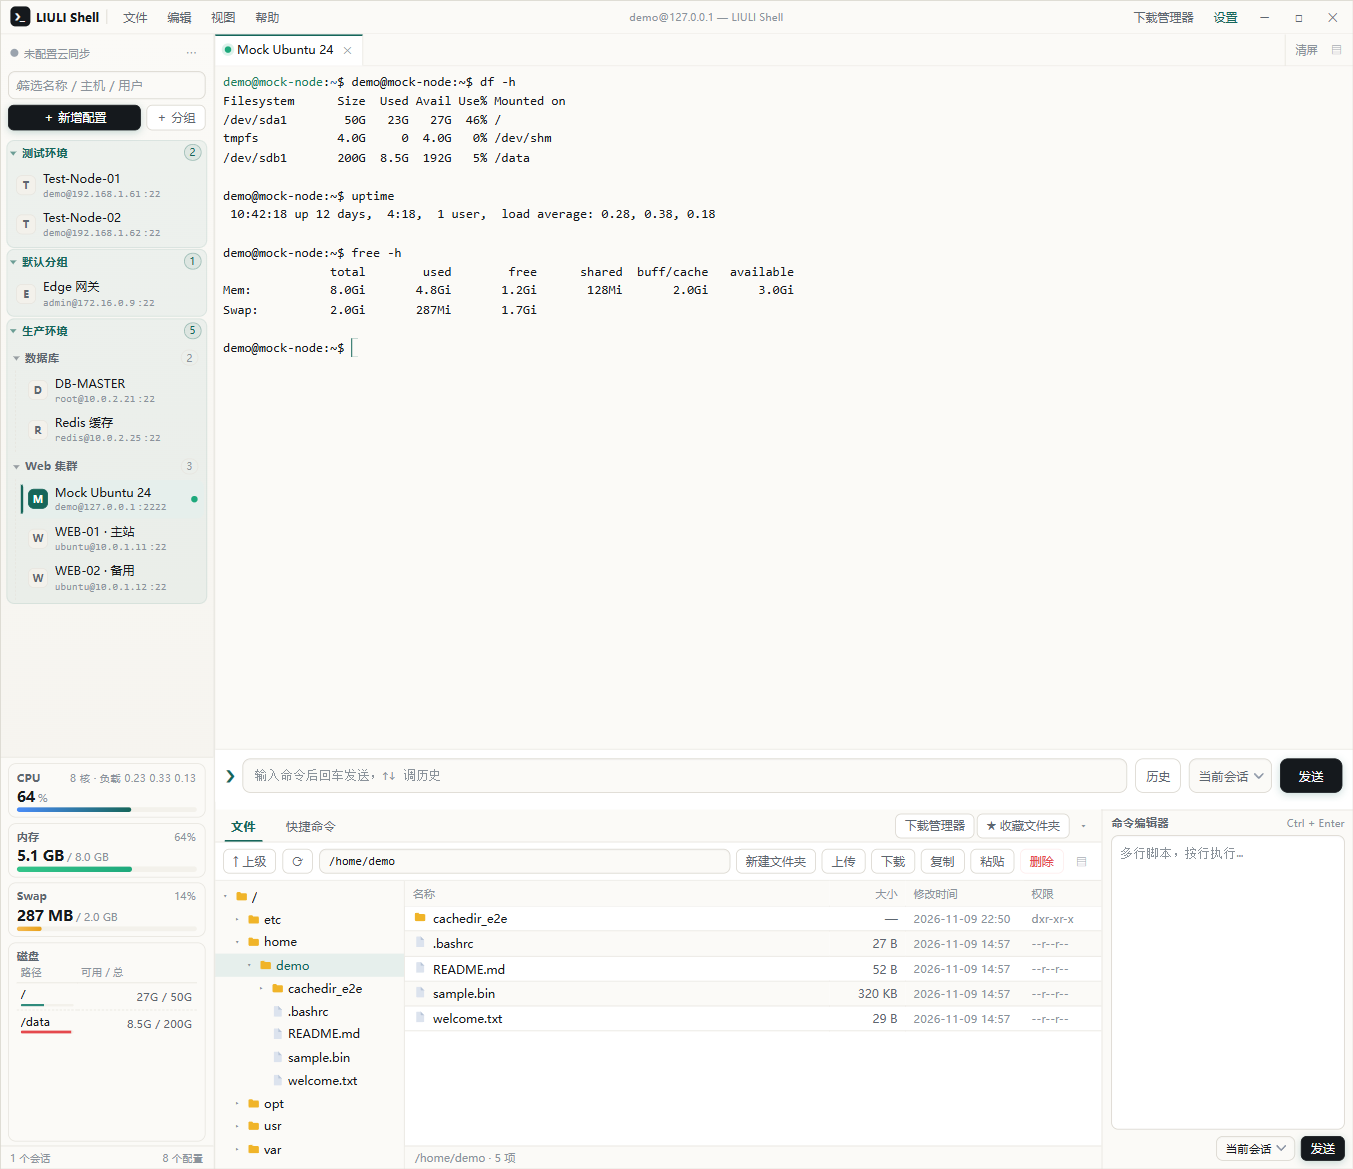
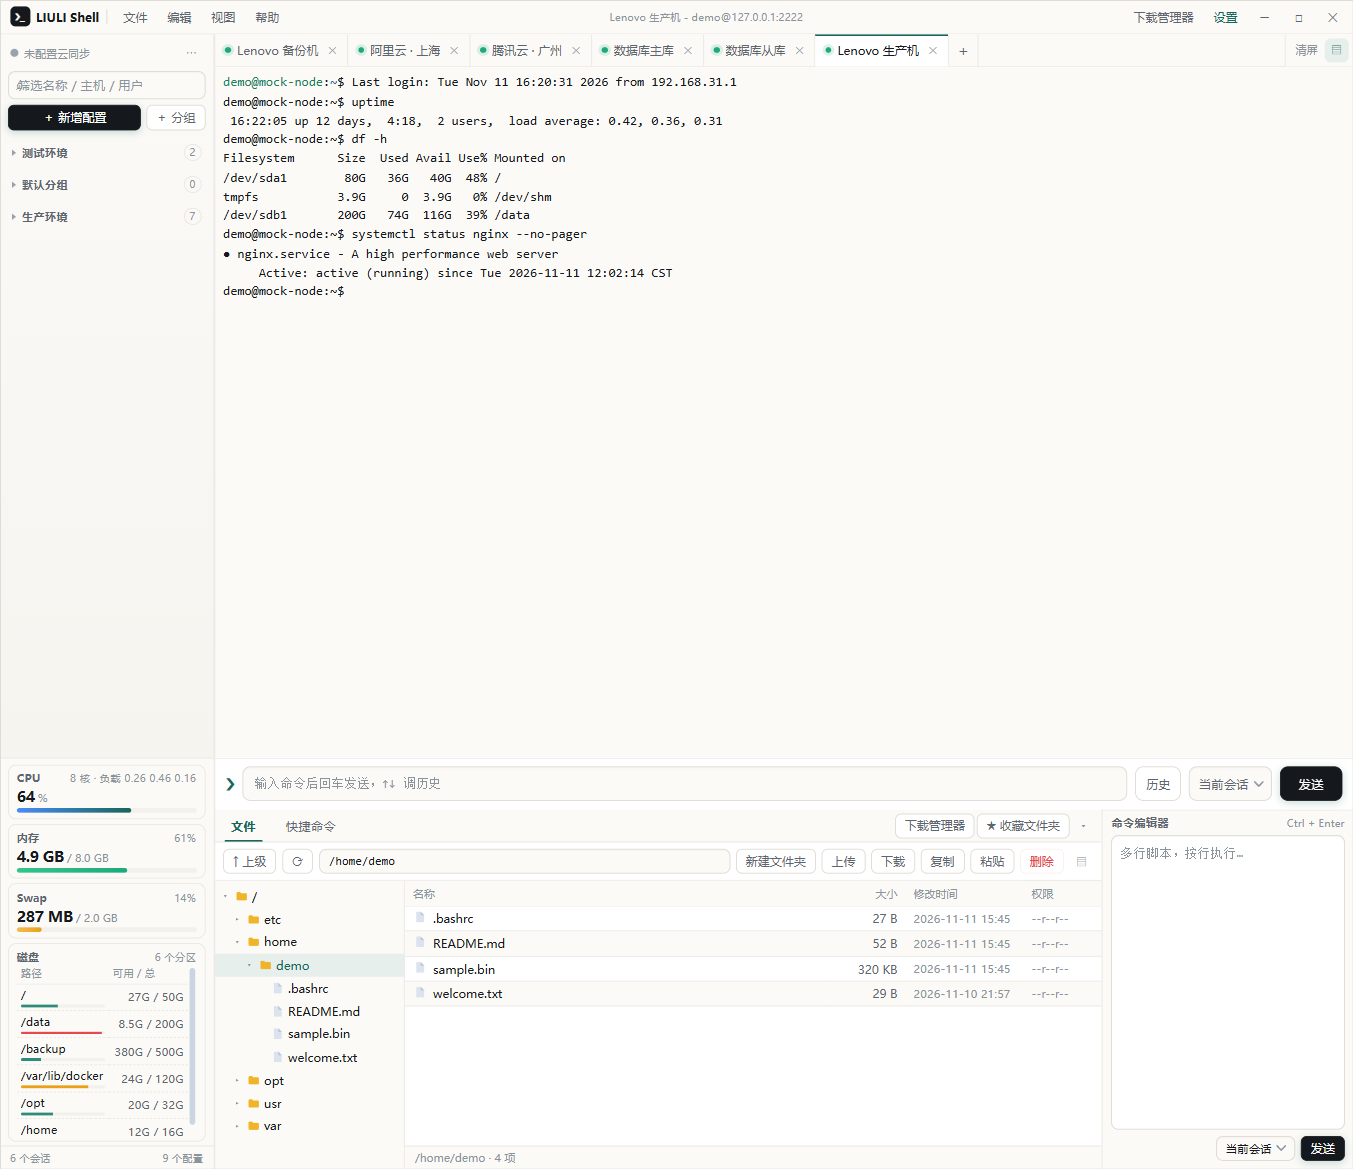
docs: 更新界面截图并同步官网资源

diff --git a/项目设计.md b/项目设计.md
@@ -127,7 +127,7 @@ npx electron-builder --mac dmg zip --arm64    # 只打 Apple Silicon
 
 ## 界面预览
 
-![界面预览](docs/assets/theme-warm.png)
+![界面预览](docs/assets/main-current.png)
 
 隐藏服务器信息栏后的布局（终端向右扩展、命令编辑器常驻右下角）：见 [布局（隐藏信息栏）](docs/assets/layout-current.png)。设置中心：[设置中心](docs/assets/settings-current.png)。
 
